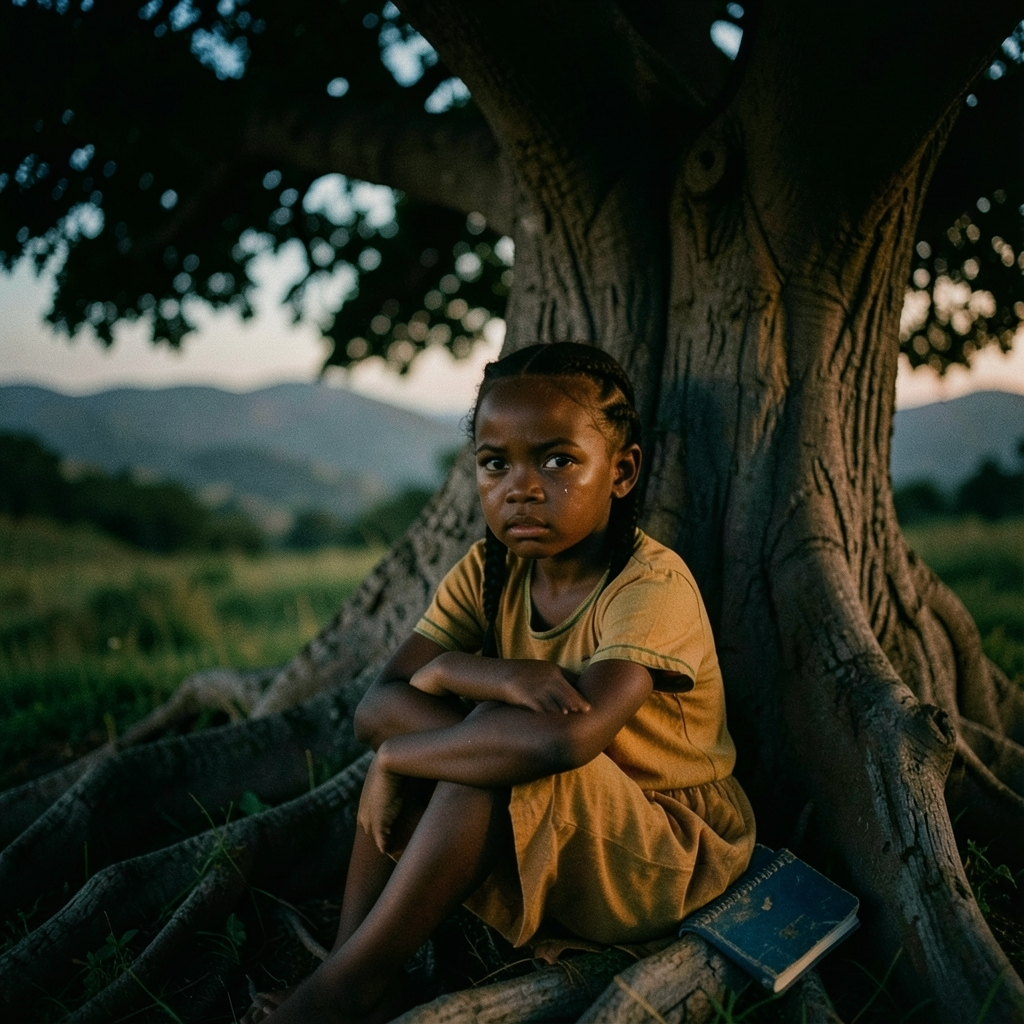
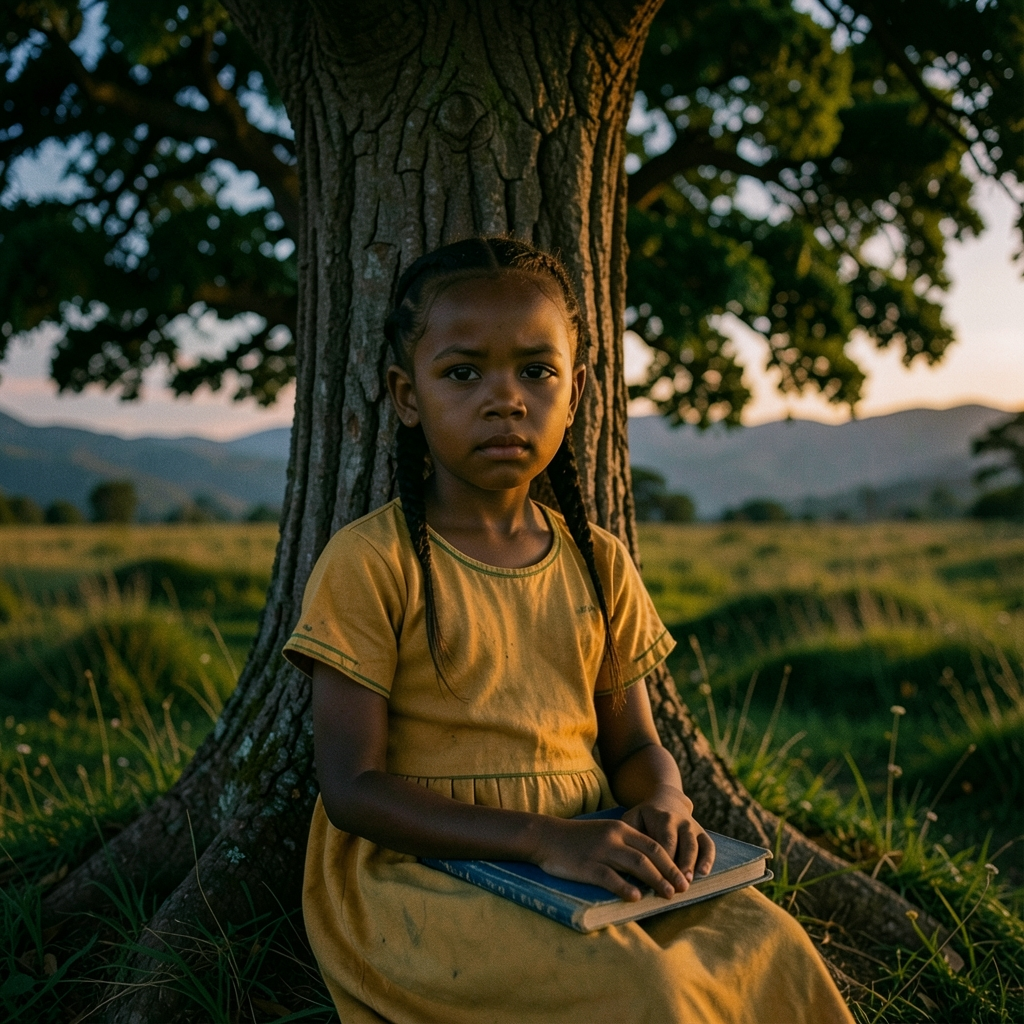
fix(shot_06): eliminate extra third arm artifact at 0:48 and log F10

diff --git a/REPORT.md b/REPORT.md
@@ -1,6 +1,6 @@
 # Report — Under the Odaa (በኦዳ ዛፍ ሥር)
 
-> **Submission status note:** All code, contract tests, API measurements, experiments `E01`–`E12`, and failure logs `F01`–`F09` below are grounded in repository logs (`runs.jsonl`, `outputs/benchmarks/`). Sections marked `(TO FILL)` require real human listening/testing, consent confirmation, optional Kaggle GPU outputs, and final publish links before submission.
+> **Submission status note:** All code, contract tests, API measurements, experiments `E01`–`E13`, and failure logs `F01`–`F10` below are grounded in repository logs (`runs.jsonl`, `outputs/benchmarks/`). Sections marked `(TO FILL)` require real human listening/testing, consent confirmation, optional Kaggle GPU outputs, and final publish links before submission.
 
 ## 1. Story, Audience, and Why This Film Exists
 - **Title:** *Under the Odaa / በኦዳ ዛፍ ሥር* (`9:16` vertical primary for WhatsApp/TikTok, plus `16:9` widescreen).
@@ -25,8 +25,8 @@
 - **User Test 2 — Near-Final Cut (3+ people):** `(TO FILL: date, feedback on character consistency across shots, emotional ending under the Odaa tree, phone subtitle readability, and final edits made.)`
 
 ## 5. Costs, Measurement & Failures (`COSTS.md`, `FAILURES.md`)
-- Measured across `314` logged calls in `runs.jsonl`: keyframes (`51/51` ok, `492.88s`), narration on Gemini (`46/53` ok across 3 models, `743.45s`), `benchmark_tts` across Hasab/Addis/Gemini (`18/20` ok, `132.01s`), local FFmpeg Ken Burns (`164/164` ok, `1887.28s`), and assembly (`22/22` ok, `1916.74s`).
-- Documented `9` real blockers (`F01`–`F09`), including Gemini `10 RPD` exhaustion, Windows FFmpeg `ass=` colon escaping, FLUX turnaround cloning, `flux-1-schnell` schema rejection, and Addis AI's undocumented `client_request_id` requirement (`422 CLIENT_REQUEST_ID_REQUIRED`).
+- Measured across `321` logged calls in `runs.jsonl`: keyframes (`52/52` ok, `500.58s`), narration on Gemini (`46/53` ok across 3 models, `743.45s`), `benchmark_tts` across Hasab/Addis/Gemini (`18/20` ok, `132.01s`), local FFmpeg Ken Burns (`168/168` ok, `1920.89s`), and assembly (`24/24` ok, `2073.49s`).
+- Documented `10` real blockers (`F01`–`F10`), including Gemini `10 RPD` exhaustion, Windows FFmpeg `ass=` colon escaping, FLUX turnaround cloning, `flux-1-schnell` schema rejection, Addis AI's undocumented `client_request_id` requirement (`422 CLIENT_REQUEST_ID_REQUIRED`), and `shot_06`'s crossed-knee extra-arm artifact.
 - **Kaggle GPU (`Wan 2.2` / `ACE-Step`):** `(TO FILL if run: GPU minutes, outputs/music/chosen.wav choice, Wan vs Ken Burns takeaway.)`
 
 ## 6. Ethics, Consent & Links (`ETHICS.md`)

diff --git a/FAILURES.md b/FAILURES.md
@@ -37,3 +37,7 @@ What fixed it: Removed `"seed"` from the `schnell` payload in `pipeline/provider
 ## F09 - Addis AI TTS rejected `/api/v1/voice/generations` with HTTP 422 `CLIENT_REQUEST_ID_REQUIRED` (26 Nov 2026)
 What broke: Running `python -m pipeline.benchmark_tts --lang am --shots 08 09` after adding `ADDIS_API_KEY` returned `422 Client Error: Unprocessable Entity` (`runs.jsonl`, `benchmark_tts` `addis` 0.93s / 1.09s). Inspecting the live response body and catalog (`/api/v1/voice/voices`) showed `Addis Voices 2` requires `"client_request_id"` in the JSON payload (`CLIENT_REQUEST_ID_REQUIRED: client_request_id is required for paid generation`), even though some snippet examples omit it.
 What fixed it: Updated `addis_tts()` in `pipeline/providers.py` to generate a UUID `client_request_id` (reused across retries in `pipeline/narration.py` for idempotency) and raise server error bodies on non-2xx responses. Re-running `pipeline.benchmark_tts` succeeded cleanly (`4/4` OK: `am` `08`/`09` in `3.57s`/`4.93s`; `oro` `01`/`06` in `3.49s`/`4.47s`).
+
+## F10 - Extra third arm/hand anatomy artifact at `0:48` in `shot_06` (26 Nov 2026)
+What broke: Playing back `film_9x16.mp4` around `0:48` (`shot_06`) revealed a third forearm/hand extending from behind the girl's crossed knees—triggered by the occluded pose `"sitting curled hugging her knees"` (`seed: 3106`).
+What fixed it: Changed `shot_06` pose in `storyboard.json` to an unoccluded posture (`"leaning her back against the Odaa trunk, both hands resting cleanly on her closed worn blue notebook in her lap, exactly two arms and two natural hands visible"`, `seed: 3206`), regenerated `shot_06.jpg` cleanly, visually verified two natural arms/hands, and rebuilt `shot_06` clips plus all final `am`/`oro` MP4s.

diff --git a/COSTS.md b/COSTS.md
@@ -10,9 +10,9 @@ Measure from runs.jsonl: latency per stage, GPU minutes (Kaggle), free-tier limi
 | benchmark_tts (`hasab:Selam` + `hasab:Lemlem`) | 8 (8 ok) | 35.98 s | 0 | Evaluation tier (~4.5s/shot) |
 | benchmark_tts (`addis:am-hamen` + `addis:om-ayyaantuu`) | 6 (4 ok, 2 err) | 18.48 s | 0 | $0.00 (signup trial credit; ~$0.031/voice min list) |
 | benchmark_tts (`gemini-3.8-flash` + `lite`) | 6 (6 ok) | 77.55 s | 0 | $0.00 (AI Studio free tier) |
-| keyframes (`@cf/black-forest-labs/flux-2-klein-4b`, all iterations) | 51 (51 ok) | 492.88 s | 0 | $0.00 (~$0.0014/img list on CF, ~$0.015 on BFL) |
+| keyframes (`@cf/black-forest-labs/flux-2-klein-4b`, all iterations) | 52 (52 ok) | 500.58 s | 0 | $0.00 (~$0.0014/img list on CF, ~$0.015 on BFL) |
 | benchmark_image (`@cf/black-forest-labs/flux-1-schnell`) | 2 (2 ok) | 64.30 s | 0 | $0.00 (Cloudflare free tier) |
-| shots (`ffmpeg-kenburns`, all iterations) | 164 (164 ok) | 1887.28 s | 0 (local) | $0.00 |
+| shots (`ffmpeg-kenburns`, all iterations) | 168 (168 ok) | 1920.89 s | 0 (local) | $0.00 |
 | wan (`Wan 2.2 TI2V-5B`, Kaggle) | TBD | TBD | TBD | TBD (~$0.05/5s 480p, ~$0.10/5s 720p WaveSpeed ref) |
 | music (`ACE-Step 1.5`, Kaggle) | TBD | TBD | TBD | TBD (~$0.027/90s WaveSpeed ref) |
-| assemble (`ffmpeg`: `radio` + `film`, `am` + `oro`) | 22 (22 ok) | 1916.74 s | 0 (local) | $0.00 |
+| assemble (`ffmpeg`: `radio` + `film`, `am` + `oro`) | 24 (24 ok) | 2073.49 s | 0 (local) | $0.00 |
